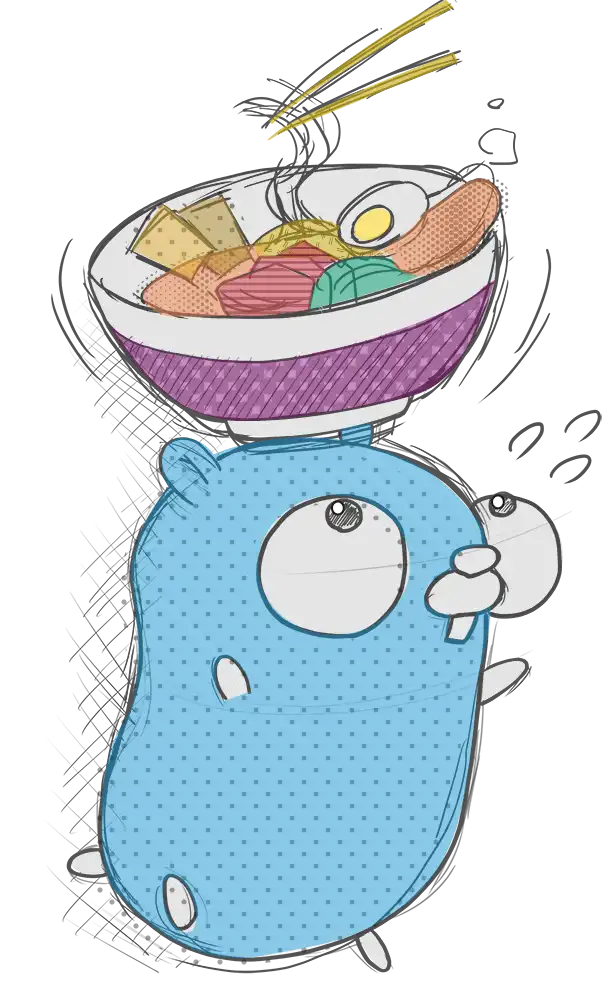
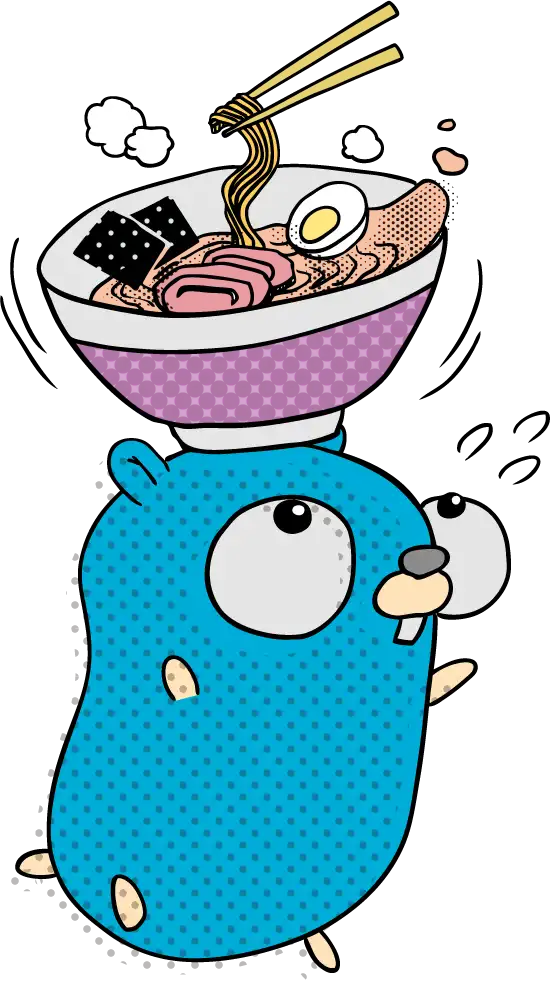
replace rough to modern gopher!!!!!!!!

diff --git a/components/TheHome.vue b/components/TheHome.vue
@@ -91,8 +91,8 @@ export default class TheHome extends Vue {}
 }
 .gopher {
   float: left;
-  width: 35%;
-  margin-right: 2%;
+  width: 30%;
+  margin-right: 7%;
 }
 .title {
   margin: 3em 0 1.4em;
